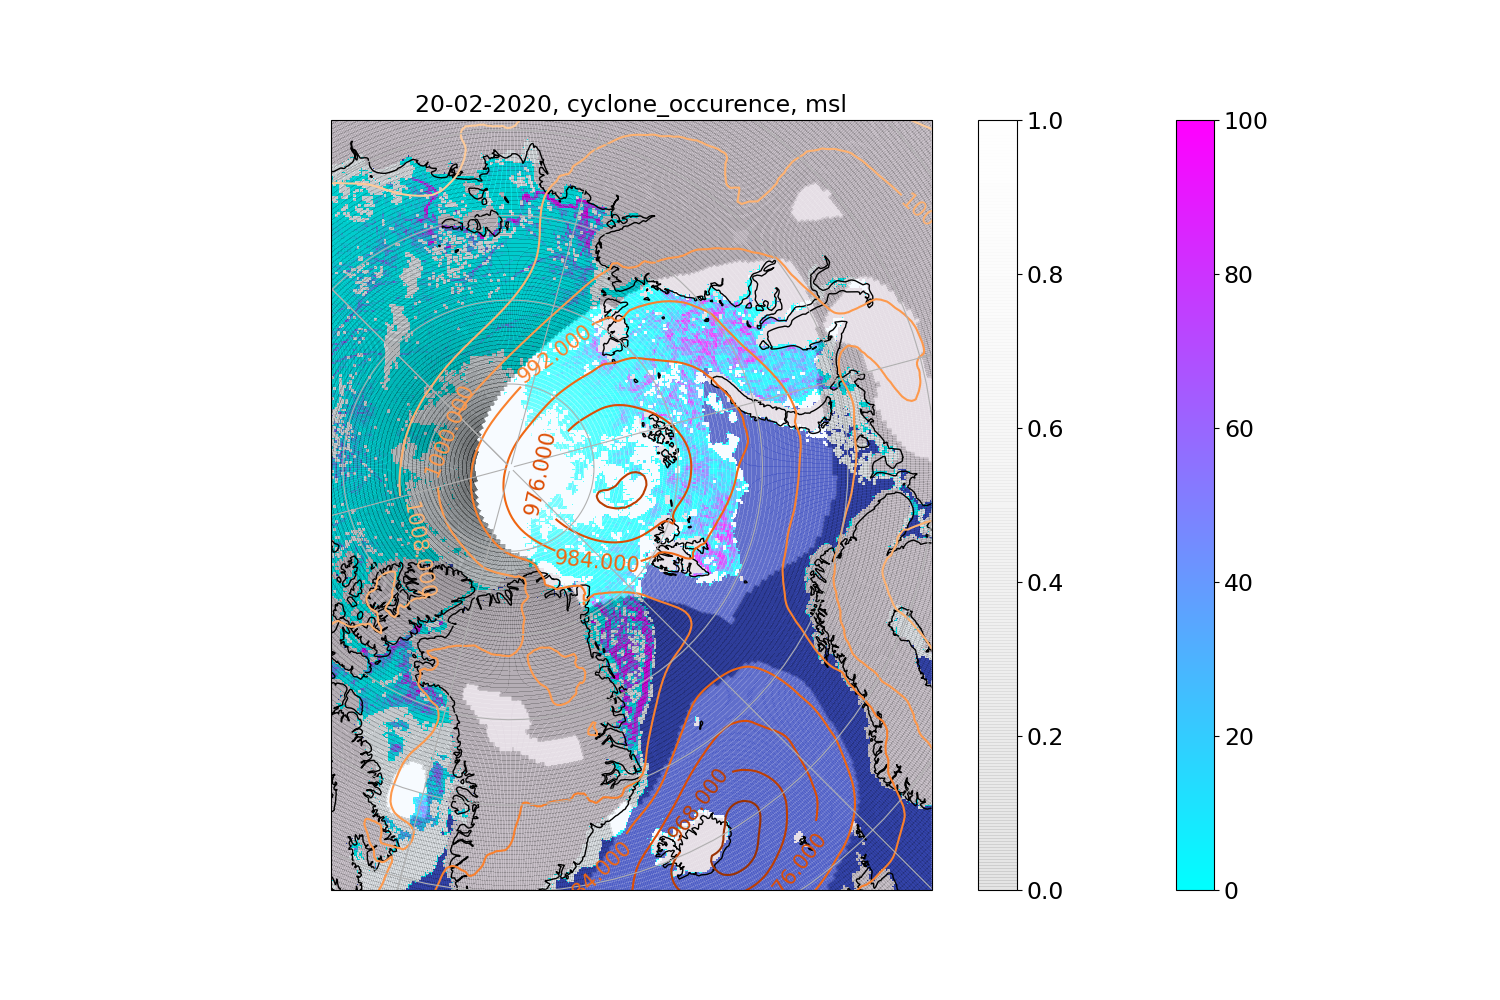
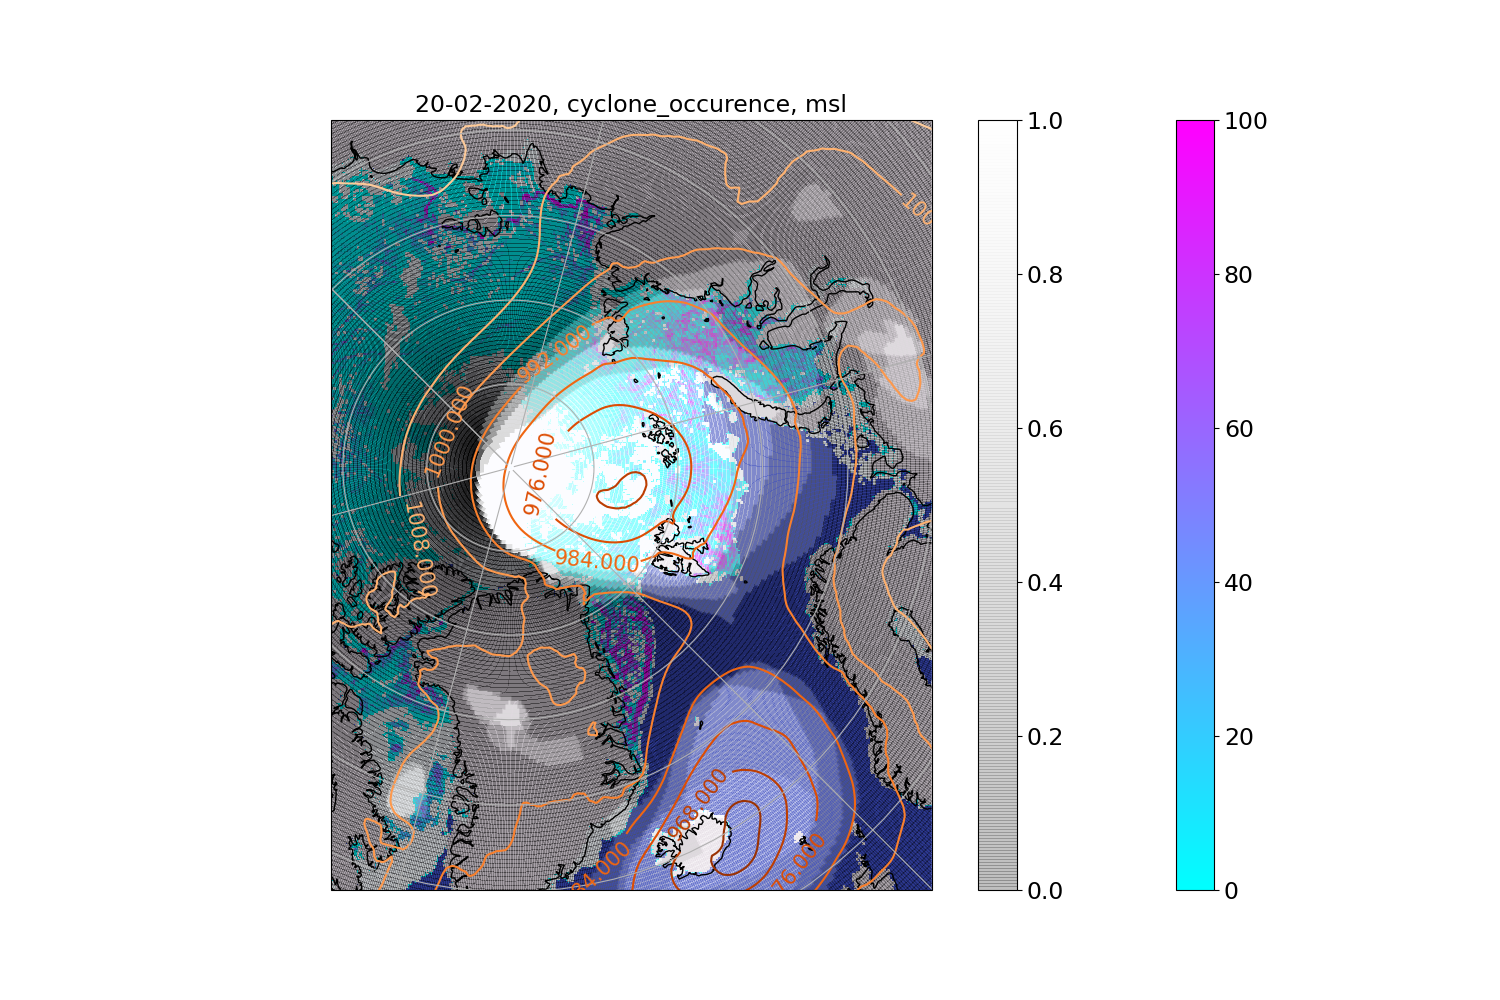
Cyclone trace works, no data could be quantified yet

Changed region(s): [[0.2147, 0.124, 0.7053, 0.899]]

diff --git a/plot.py b/plot.py
@@ -3,6 +3,7 @@ import cartopy.crs as ccrs
 import leads
 import data_science as ds
 import numpy as np
+import scipy.optimize as opt
 
 
 def setup_plot(extent):
@@ -20,7 +21,7 @@ def setup_plot(extent):
 def show_plot(fig, file_name, show):
     if show:
         plt.show()
-    plt.savefig(file_name, transparent=True)
+    plt.savefig(file_name)
     plt.close(fig)
 
 
@@ -105,7 +106,7 @@ def variable_plot(date, fig, ax, variable):
     # Plots contour lines of mean sea level air pressure.
     contour_plot = {'msl': True, 'wind': False, 't2m': False, 'cyclone_occurence': False}
     cmap_dict = {'msl': 'Oranges_r', 'cyclone_occurence': 'Greys_r', 'wind': 'cividis', 't2m': 'coolwarm'}
-    alpha_dict = {'msl': 1, 'cyclone_occurence': .1, 'wind': 1, 't2m': 1}
+    alpha_dict = {'msl': 1, 'cyclone_occurence': .25, 'wind': 1, 't2m': 1}
     data_set = leads.Era5(variable)
     # data_set = leads.Era5Regrid(leads.Lead(date), variable)
 
@@ -119,6 +120,30 @@ def variable_plot(date, fig, ax, variable):
         # im.set_clim(0, 25)
         cbar = fig.colorbar(im, ax=ax)
         cbar.ax.tick_params(labelsize=17)
+
+
+def matrix_plot(matrix, extent=None):
+    fig, ax = setup_plot(extent)
+    grid = leads.CoordinateGrid()
+    # im = ax.pcolormesh(grid.lon, grid.lat, matrix, cmap='RdYlGn', transform=ccrs.PlateCarree())
+    im = ax.pcolormesh(grid.lon, grid.lat, matrix, cmap='bwr', transform=ccrs.PlateCarree())
+    im.set_clim(-.6, .6)
+    cbar = fig.colorbar(im, ax=ax)
+    cbar.ax.tick_params(labelsize=17)
+    plt.show()
+
+
+def quantify(lead_diff, cyc_diff):
+    lead_diff.flatten()
+    mask = np.isnan(lead_diff)
+    cyc_diff.flatten()
+    lead_diff = lead_diff[~mask]
+    cyc_diff = cyc_diff[~mask]
+    plt.scatter(cyc_diff, lead_diff, s=1)
+    fit = lambda x, a: a * x
+    pars, cov = opt.curve_fit(fit, cyc_diff, lead_diff)
+    plt.plot(cyc_diff, [fit(x, pars[0]) for x in cyc_diff])
+    plt.show()
 
 
 def plots_for_case(case, extent=None, var=None, plot_lead=True, diff=False):
@@ -135,16 +160,38 @@ def plots_for_case(case, extent=None, var=None, plot_lead=True, diff=False):
 
 if __name__ == '__main__':
     case1 = ['20200216', '20200217', '20200218', '20200219', '20200220', '20200221', '20200222']
-    extent1 = [-70, 100, 65, 90]
+    extent1 = (80, -20, 90, 70)
     case2 = ['20200114', '20200115', '20200116', '20200117', '20200118', '20200119', '20200120']
-    extent2 = None
+    extent2 = [80, -20, 90, 70]
     case3 = ['20200128', '20200129', '20200130', '20200131', '20200201', '20200202', '20200203']
-    extent3 = None
+    extent3 = [70, -10, 90, 70]
     case4 = ['20200308', '20200309', '20200310', '20200311', '20200312', '20200313', '20200314', '20200315', '20200316']
-    extent4 = None
+    extent4 = [70, -10, 90, 70]
     path = './plots/case1'
 
-    regional_lead_plot('20200221', show=True, variable=None, plot_leads=True)
+    # regional_lead_plot('20200221', show=True, variable=None, plot_leads=True)
 
+    extent = [-10, 70, 70, 90]
+    # matrix_plot(ds.cyclone_trace('20200308', '20200316'), extent)
+    # matrix_plot(ds.cyclone_trace('20200227', '20200307'), extent)
+    # plots_for_case(case1, extent1, ['cyclone_occurence', 'msl'], True)
+
+    # lead_diff = ds.lead_average('20200114', '20200117') - ds.lead_average('20200110', '20200113') #case2
+    # cyc_diff = ds.cyclone_trace('20200114', '20200117') - ds.cyclone_trace('20200110', '20200113') #case2
+    # lead_diff = ds.lead_average('20200218', '20200220') - ds.lead_average('20200212', '20200216') #case1
+    # cyc_diff = ds.cyclone_trace('20200218', '20200220', extent) - ds.cyclone_trace('20200212', '20200216', extent) #case1
+    # lead_diff = ds.lead_average('20200131', '20200203') - ds.lead_average('20200126', '20200130') #case3
+    # cyc_diff = ds.cyclone_trace('20200131', '20200203') - ds.cyclone_trace('20200126', '20200130') #case3
+    # lead_diff = ds.lead_average('20200308', '20200316') - ds.lead_average('20200227', '20200307') #case4
+    # cyc_diff = ds.cyclone_trace('20200308', '20200316') - ds.cyclone_trace('20200317', '20200325') #case4
+
+    lead_test = ds.lead_average('20200217', '20200221', extent1) - .5*(ds.lead_average('20200201', '20200216', extent1) + ds.lead_average('20200222', '20200229', extent1))
+    cyc_test = ds.cyclone_trace('20200217', '20200221') - .5*(ds.cyclone_trace('20200201', '20200216') + ds.cyclone_trace('20200222', '20200229'))
+
+    matrix_plot(lead_test, None)
+    quantify(lead_test, cyc_test)
+
+    # matrix_plot(ds.lead_average('20200210', '20200215'), extent)
+    # matrix_plot(ds.lead_average('20200217', '20200221'), extent)
     # plots_for_case(case1, extent1, ['wind', 'msl'],  plot_lead=False)
     # plots_for_case(case1, extent1, ['cyclone_occurence', 'msl'],  plot_lead=False)

diff --git a/data_science.py b/data_science.py
@@ -1,6 +1,23 @@
 import leads
 import numpy as np
 import matplotlib.pyplot as plt
+from datetime import date, timedelta
+import scipy
+import scipy.ndimage
+
+
+def time_delta(date1, date2):
+    days = []
+    start_date = date(int(date1[:4]), int(date1[4:6]), int(date1[6:]))
+    end_date = date(int(date2[:4]), int(date2[4:6]), int(date2[6:]))
+
+    delta = end_date - start_date   # returns timedelta
+
+    for i in range(delta.days + 1):
+        day = str(start_date + timedelta(days=i))
+        days.append(''.join(c for c in day if c not in '-'))
+
+    return days
 
 
 def compare_nan(arr1, arr2):
@@ -12,6 +29,14 @@ def compare_nan(arr1, arr2):
     arr[arr == 0] = np.nan
     arr[~np.isnan(arr)] = 1
     return arr
+
+
+def sum_nan_arrays(arr1, arr2):
+    # Returns arr1 + arr2 element wise. If one element is NaN it's treated like 0. If both elements are Nan, the return
+    # is Nan as well.
+    ma = np.isnan(arr1)
+    mb = np.isnan(arr2)
+    return np.where(ma & mb, np.nan, np.where(ma, 0, arr1) + np.where(mb, 0, arr2))
 
 
 def two_lead_diff(lead1, lead2):
@@ -34,7 +59,7 @@ def variable_manip(var, matrix):
         return matrix
 
 
-def select_area(grid, lead, matrix, points=(90, 0, 90, 70)):
+def select_area(grid, lead, matrix, points=(80, -20, 90, 70)):
     lat = grid.lat
     lon = grid.lon
     mask_lat_a = lat >= points[3]
@@ -50,9 +75,37 @@ def select_area(grid, lead, matrix, points=(90, 0, 90, 70)):
     return lon, lat, matrix
 
 
-def cyclone_trace():
-    pass
+def cyclone_trace(date1, date2):
+    dates = time_delta(date1, date2)
+    grid = leads.CoordinateGrid()
+    cum_cyclone = np.full(grid.lon.shape, np.nan)
+    N = len(dates)
 
+    for date in dates:
+        lead = leads.Lead(date)
+        cyclone = leads.Era5Regrid(lead, 'cyclone_occurence')
+        cyclone = cyclone.get_variable(date)
+        #cyclone = select_area(grid, lead, cyclone)[2]
+        cum_cyclone = sum_nan_arrays(cum_cyclone, cyclone)
+    cum_cyclone = cum_cyclone/N
+    #cum_cyclone = scipy.ndimage.filters.gaussian_filter(cum_cyclone, [1.0, 1.0], mode='constant', order=0)
+    return cum_cyclone
+
+
+def lead_average(date1, date2, extent):
+    dates = time_delta(date1, date2)
+    grid = leads.CoordinateGrid()
+    cum_leads = np.full(grid.lon.shape, np.nan)
+    N = len(dates)
+
+    for date in dates:
+        lead = leads.Lead(date)
+        lead = select_area(grid, lead, lead.lead_data, extent)[2]
+        cum_leads = sum_nan_arrays(cum_leads, lead)
+
+    cum_leads = cum_leads/N
+    #cum_leads = scipy.ndimage.filters.gaussian_filter(cum_leads, [1.0, 1.0], mode='constant', order=0)
+    return cum_leads
 
 def lead_hist(date):
     lead = leads.Lead(date)
@@ -81,10 +134,15 @@ def lead_hist(date):
 if __name__ == '__main__':
     #lead_hist('20200218')
     case1 = ['20200216', '20200217', '20200218', '20200219', '20200220', '20200221', '20200222']
-    extent1 = [-70, 100, 65, 90]
+    extent1 = [-90, 100, 65, 90]
     case2 = ['20200114', '20200115', '20200116', '20200117', '20200118', '20200119', '20200120']
     extent2 = None
     case3 = ['20200128', '20200129', '20200130', '20200131', '20200201', '20200202', '20200203']
     extent3 = None
     case4 = ['20200308', '20200309', '20200310', '20200311', '20200312', '20200313', '20200314', '20200315', '20200316']
     extent4 = None
+
+    #lead_average('20200101', '20200228')
+
+    print(np.full((3,2), np.nan))
+
